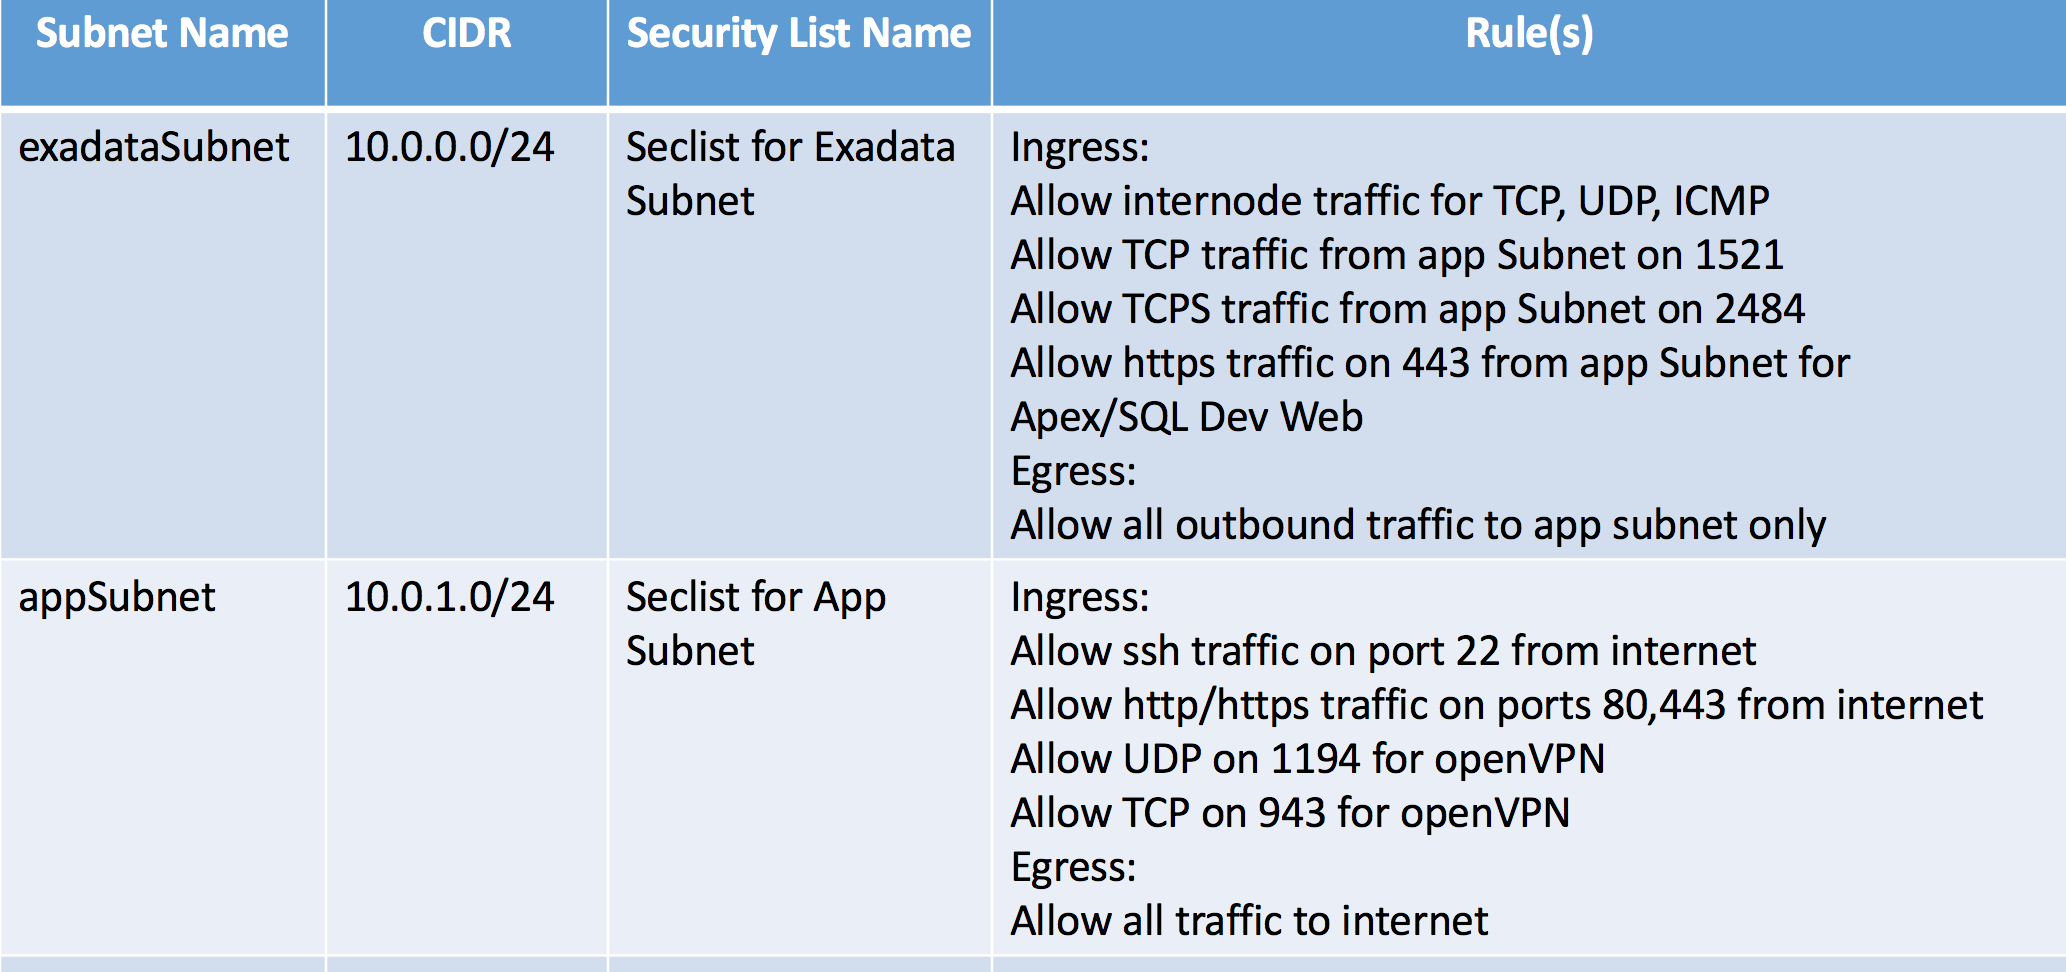
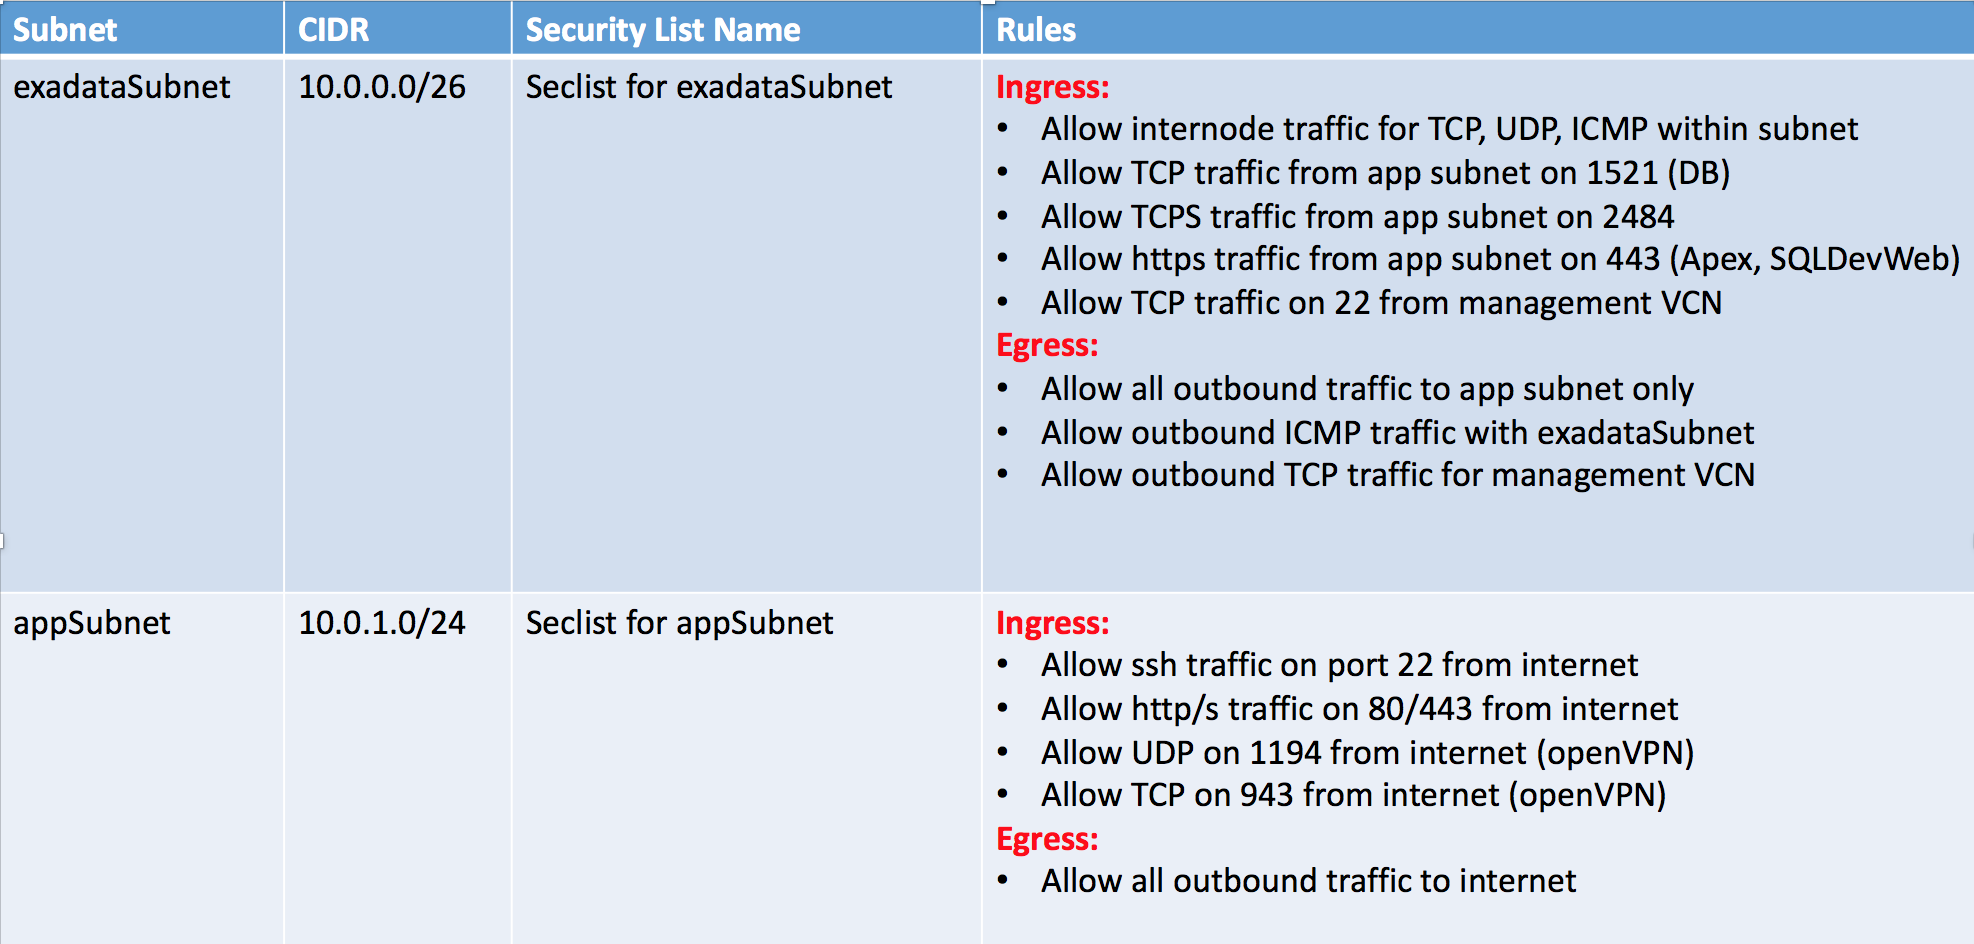
network update

Changed region(s): [[0.0, 0.0, 1.0, 0.9831]]

diff --git a/ATPD-Networking.md b/ATPD-Networking.md
@@ -162,11 +162,23 @@ We will also follow these security guidelines as we build the network,
 
 Start deploying the above configuration in the following order,
 
-**a. Create seclists 'Seclist for Exadata Subnet' and 'Seclist for App Subnet'.**
- An example screenshot below shows adding the exaSubnet-seclist in the fleetCompartment with an ingress rule for TCP traffic. Similarly, add rules to this seclist for UDP and ICMP traffic and an egress rule per table above
+**a. Create seclists 'Seclist for exadataSubnet' and 'Seclist for appSubnet'.**
+ 
+ An example screenshot below shows adding the exaSubnet-seclist in the fleetCompartment with an ingress rule for TCP and UDP traffic. Similarly, add an ingress to this seclist for  ICMP traffic as well.
 
-![add_seclist](./images/100/add_seclist.png)
+![add_seclist](./images/100/add_seclist1.png)
 
+We also need to add an ingress rule to allow ssh traffic on port 22 from the management VCN for the automation processes to do their jobs. Howeveer, since we do not know the CIDR for the management VCN, we allow traffic on port 22 from 0.0.0.0/0  Note that since this subnet is not routed to an internet gateway, it still cannot be accessed from over the internet. Therefore the only way to connect to port 22 is from within the VCN or through a peered management VCN. Hence, your network is still very restricted and secure.
+
+![add_seclist](./images/100/add_seclist2.png)
+
+And finally, add ingress rules for ports 2484, 443 and egress rules to this security list as per table above.
+
+![add_seclist](./images/100/add_seclist3.png)
+
+Similarly, create a security list for the app subnet called 'Seclist for appSubnet' and add ingress and egress rules per table above. An example screenshot showing ingress rules for the appSubnet is shown below.
+
+![add_seclist](./images/100/add_seclist4.png)
 
 
 **b. Create an internet gateway** for hosts in the public subnets to be accessible over the internet. This is optional and depends on wether you want any hosts in the public domain. Typically bastion hosts can be setup in a public subnet for ssh access. In these tutorial, for simplicity, we will setup our developer client machines in the public appSubnet
